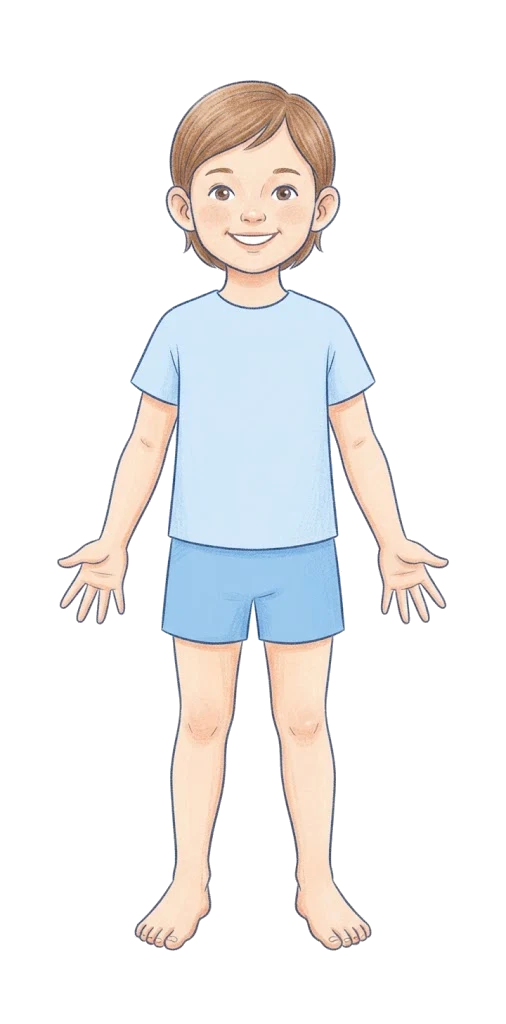
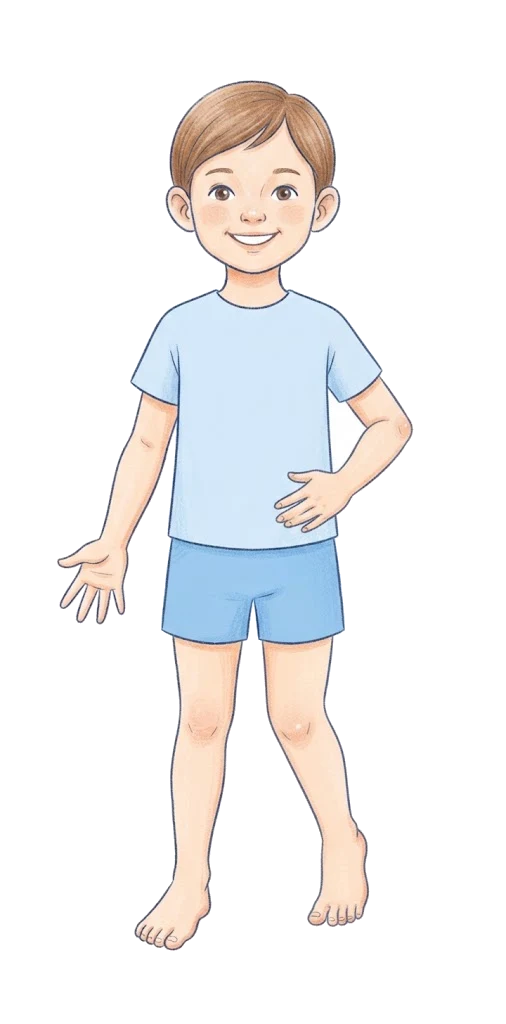
Parties du corps : nouvelle image (bras et jambe pliés), zoom à deux doigts et déplacement
Claude-Session: https://claude.ai/code/session_01UkP11uCuPaN6MyB6YyqYQX

diff --git a/jeux/corps.html b/jeux/corps.html
@@ -23,7 +23,9 @@ body.withkb #inner{bottom:var(--kbh,250px)}
 #name{flex:1;font-size:min(7vw,28px);font-weight:700;line-height:1.2}
 #name span{white-space:nowrap}
 #bw{flex:1;min-height:0;display:flex;justify-content:center}
-#body{height:100%;max-width:100%}
+#body{width:100%;height:100%;touch-action:none}
+#bw{position:relative}
+#unzoom{position:absolute;right:6px;bottom:6px;width:52px;height:52px;border:3px solid var(--bd);border-radius:16px;background:var(--card);font-size:24px;box-shadow:0 3px 0 var(--bd)}
 #body .z{fill:transparent;cursor:pointer}
 #body .z.ok{fill:rgba(34,168,97,.35);stroke:#22a861;stroke-width:6}
 #body .z.ko{fill:rgba(229,72,77,.35);stroke:#e5484d;stroke-width:6}
@@ -48,7 +50,7 @@ body.withkb #inner{bottom:var(--kbh,250px)}
 <div id="inner">
   <div id="top"><button id="lang" aria-label="Langue"></button><button id="lvlb"></button></div>
   <div id="ask"><button id="ear" aria-label="Réécouter">🔊</button><span id="name"></span></div>
-  <div id="bw"><svg id="body" viewBox="40 60 430 910"></svg></div>
+  <div id="bw"><svg id="body" viewBox="40 60 430 910"></svg><button id="unzoom" hidden aria-label="Voir tout">🔍</button></div>
   <div id="gapw" hidden><span class="gap" id="gap">&nbsp;</span></div>
   <div id="msg"></div>
   <div id="cnt"></div>
@@ -70,10 +72,10 @@ var ac=null;function tone(f,t,d){try{if(!ac){var C=window.AudioContext||window.w
 function plain(s){return s.toLowerCase().replace(/œ/g,"oe").normalize("NFD").replace(/[̀-ͯ]/g,"").trim()}
 function nb(t){return t.split(" ").map(function(w){return"<span>"+w+"</span>"}).join(" ")}
 // partie : [nom avec article, réponses écrites acceptées, pluriel ?, point visé par la flèche]
-var P={tete:["la tête",["tête"],0,[255,135]],cheveux:["les cheveux",["cheveux"],1,[255,95]],yeux:["les yeux",["yeux","œil","oeil"],1,[223,191]],nez:["le nez",["nez"],0,[255,215]],
+var P={tete:["la tête",["tête"],0,[255,130]],cheveux:["les cheveux",["cheveux"],1,[255,95]],yeux:["les yeux",["yeux","œil","oeil"],1,[222,190]],nez:["le nez",["nez"],0,[255,213]],
  bouche:["la bouche",["bouche"],0,[255,242]],oreille:["l'oreille",["oreille","oreilles"],0,[176,212]],cou:["le cou",["cou"],0,[255,280]],epaule:["l'épaule",["épaule","épaules"],0,[165,330]],
- bras:["le bras",["bras"],0,[385,500]],coude:["le coude",["coude","coudes"],0,[382,450]],main:["la main",["main","mains"],0,[418,565]],doigt:["le doigt",["doigt","doigts"],0,[425,600]],
- ventre:["le ventre",["ventre"],0,[255,470]],jambe:["la jambe",["jambe","jambes"],0,[300,800]],genou:["le genou",["genou","genoux"],0,[300,722]],pied:["le pied",["pied","pieds"],0,[330,930]]};
+ bras:["le bras",["bras"],0,[150,470]],coude:["le coude",["coude","coudes"],0,[398,435]],main:["la main",["main","mains"],0,[92,565]],doigt:["le doigt",["doigt","doigts"],0,[85,600]],
+ ventre:["le ventre",["ventre"],0,[230,480]],jambe:["la jambe",["jambe","jambes"],0,[210,800]],genou:["le genou",["genou","genoux"],0,[298,722]],pied:["le pied",["pied","pieds"],0,[338,915]]};
 // en allemand (bouton 🇫🇷 / 🇩🇪, à la demande de l'utilisateur) : [nom avec article, réponses écrites acceptées (avec ou sans article), pluriel ?]
 var PD={tete:["der Kopf",["Kopf"],0],cheveux:["die Haare",["Haare","Haar"],1],yeux:["die Augen",["Augen","Auge"],1],nez:["die Nase",["Nase"],0],bouche:["der Mund",["Mund"],0],
  oreille:["das Ohr",["Ohr","Ohren"],0],cou:["der Hals",["Hals"],0],epaule:["die Schulter",["Schulter","Schultern"],0],bras:["der Arm",["Arm","Arme"],0],coude:["der Ellbogen",["Ellbogen","Ellenbogen"],0],
@@ -87,21 +89,21 @@ var LV=[null,{t:"Facile",d:"Touche : la tête, le nez, la main, le pied…",p:["
 // dessin de l'enfant (de face) puis zones à toucher, des plus grandes aux plus petites (les petites passent devant)
 // dessin de l'enfant : image crayon (Gemini, détourée, 506 × 1024) ; zones à toucher recalées sur l'image, des plus grandes aux plus petites
 var ART='<image href="jeux/img/corps.webp" x="0" y="0" width="506" height="1024"/>';
-var Z=[["tete",'<ellipse cx="255" cy="185" rx="92" ry="100"/>'],
- ["bras",'<polygon points="140,330 175,330 140,560 100,550"/><polygon points="335,330 370,330 410,550 370,560"/>'],
- ["jambe",'<rect x="172" y="640" width="80" height="240"/><rect x="258" y="640" width="80" height="240"/>'],
- ["ventre",'<rect x="185" y="410" width="140" height="130"/>'],
- ["pied",'<ellipse cx="180" cy="925" rx="48" ry="30"/><ellipse cx="328" cy="925" rx="48" ry="30"/>'],
- ["main",'<circle cx="95" cy="570" r="38"/><circle cx="415" cy="570" r="38"/>'],
- ["cheveux",'<polygon points="168,190 170,110 210,78 300,78 340,110 342,190 320,150 255,115 190,150"/>'],
- ["oreille",'<ellipse cx="176" cy="210" rx="18" ry="28"/><ellipse cx="336" cy="210" rx="18" ry="28"/>'],
+var Z=[["tete",'<ellipse cx="255" cy="175" rx="90" ry="100"/>'],
+ ["bras",'<polygon points="138,335 172,335 135,560 98,548"/><polygon points="338,335 372,335 412,425 396,460 330,488 318,462 378,428"/>'],
+ ["jambe",'<rect x="172" y="640" width="76" height="245"/><polygon points="256,640 340,640 346,760 360,872 318,880 300,765"/>'],
+ ["ventre",'<rect x="185" y="420" width="135" height="125"/>'],
+ ["pied",'<ellipse cx="172" cy="930" rx="48" ry="30"/><ellipse cx="338" cy="915" rx="40" ry="32"/>'],
+ ["main",'<circle cx="92" cy="572" r="36"/><circle cx="308" cy="500" r="34"/>'],
+ ["cheveux",'<polygon points="168,190 170,110 210,76 300,76 340,110 342,190 322,150 255,112 188,150"/>'],
+ ["oreille",'<ellipse cx="176" cy="210" rx="18" ry="28"/><ellipse cx="336" cy="208" rx="18" ry="28"/>'],
  ["cou",'<rect x="225" y="262" width="60" height="32"/>'],
- ["epaule",'<circle cx="168" cy="322" r="26"/><circle cx="342" cy="322" r="26"/>'],
- ["coude",'<circle cx="128" cy="450" r="22"/><circle cx="382" cy="450" r="22"/>'],
- ["genou",'<circle cx="210" cy="722" r="26"/><circle cx="300" cy="722" r="26"/>'],
- ["doigt",'<rect x="55" y="580" width="60" height="40"/><rect x="395" y="580" width="60" height="40"/>'],
- ["yeux",'<circle cx="223" cy="191" r="16"/><circle cx="287" cy="191" r="16"/>'],
- ["nez",'<ellipse cx="255" cy="215" rx="13" ry="13"/>'],
+ ["epaule",'<circle cx="165" cy="330" r="26"/><circle cx="345" cy="330" r="26"/>'],
+ ["coude",'<circle cx="126" cy="450" r="22"/><circle cx="398" cy="435" r="24"/>'],
+ ["genou",'<circle cx="205" cy="718" r="26"/><circle cx="298" cy="722" r="26"/>'],
+ ["doigt",'<rect x="55" y="580" width="60" height="42"/><rect x="272" y="478" width="40" height="42"/>'],
+ ["yeux",'<circle cx="222" cy="190" r="16"/><circle cx="286" cy="190" r="16"/>'],
+ ["nez",'<ellipse cx="255" cy="213" rx="13" ry="13"/>'],
  ["bouche",'<ellipse cx="255" cy="240" rx="28" ry="14"/>']];
 var PK="@"+(window.PROFILE||"p1");function ls(k,v){try{if(v===undefined)return localStorage.getItem(k);localStorage.setItem(k,v)}catch(e){return null}}
 var level=Math.min(3,Math.max(1,parseInt(ls("corps_lvl"+PK))||1));
@@ -121,7 +123,7 @@ function arrow(t){var x=t[0],y=t[1],fx=x<253?x-90:x+90,fy=y-60;
 function show(){var L=LV[level];cur=deck[qi];miss=0;busy=false;val="";
  $("body").innerHTML=ART+zones(L)+(L.w?arrow(P[cur][3]):"");
  // en écriture (clavier affiché, moins de place) : on zoome sur la partie du corps montrée par la flèche
- var y=P[cur][3][1];$("body").setAttribute("viewBox",!L.w?"40 60 430 910":y<300?"110 30 290 300":y<650?"20 280 470 380":"110 560 300 420");$("msg").textContent="";
+ var y=P[cur][3][1];setVB0((!L.w?"40 60 430 910":y<300?"110 30 290 300":y<650?"20 280 470 380":"110 560 300 420").split(" ").map(Number));$("msg").textContent="";
  $("name").innerHTML=nb(ask());$("cnt").textContent=(qi+1)+" / "+deck.length;if(L.w){paint();KB.enable(true)}
  setTimeout(function(){if(!busy&&!miss)say(ask())},250)}
 function paint(){var g=$("gap");g.className="gap";g.innerHTML=val?val.replace(/</g,""):"&nbsp;"}
@@ -129,11 +131,36 @@ $("ear").onclick=function(){if(cur)say(ask())};
 function answer(ok){try{if(parent!==window)parent.postMessage({type:"answer",game:"corps",ok:ok,diff:LV[level].x,k:LV[level].w?"Écrire le nom":"Montrer",item:P[cur][0]+(DE?" · "+PD[cur][0]:"")},"*")}catch(e){}}
 function win(){busy=true;tone(660,0,.12);tone(880,.1,.2);if(!miss){good++;answer(true)}var nm=NM(cur).n,t=nm.charAt(0).toUpperCase()+nm.slice(1);
  $("msg").textContent="✅ "+t;say(T("Bravo ! ","Super! ")+nm);afterSay(function(){qi++;if(qi<deck.length)show();else end()},1800)}
-$("body").addEventListener("click",function(e){var z=e.target.closest(".z");if(!z||busy||!cur||LV[level].w)return;var k=z.dataset.k;
+/* zoom (à la demande de l'utilisateur) : pincer à deux doigts (ou molette), glisser un doigt pour se déplacer une fois zoomé, 🔍 = vue de départ ;
+   un toucher sans glisser répond au relâchement du doigt (pas l'événement click, qui peut être avalé après un glissement) — comme les cartes de Géographie */
+var svgB=$("body"),VB0=[40,60,430,910],VB=VB0.slice(),PT={},pinch=null,pan=null,moved=false;
+// la vue de départ est élargie aux proportions de la zone d'affichage : zoomé, l'image occupe toute la largeur
+function setVB0(v){var r=svgB.getBoundingClientRect(),a=r.width&&r.height?r.width/r.height:v[2]/v[3];
+ if(v[2]/v[3]<a){var w=v[3]*a;v=[v[0]-(w-v[2])/2,v[1],w,v[3]]}else{var h=v[2]/a;v=[v[0],v[1]-(h-v[3])/2,v[2],h]}
+ VB0=v.slice();VB=v.slice();applyVB()}
+function applyVB(){svgB.setAttribute("viewBox",VB.join(" "));$("unzoom").hidden=VB[2]>=VB0[2]-1}
+function geom(vb){var r=svgB.getBoundingClientRect(),s=Math.min(r.width/vb[2],r.height/vb[3]);return{r:r,s:s,ox:(r.width-vb[2]*s)/2,oy:(r.height-vb[3]*s)/2}}
+function toSvg(x,y,vb){var g=geom(vb);return[vb[0]+(x-g.r.left-g.ox)/g.s,vb[1]+(y-g.r.top-g.oy)/g.s]}
+function clampVB(v){var w=Math.max(VB0[2]/4,Math.min(VB0[2],v[2])),h=w*VB0[3]/VB0[2];return[Math.max(VB0[0],Math.min(VB0[0]+VB0[2]-w,v[0])),Math.max(VB0[1],Math.min(VB0[1]+VB0[3]-h,v[1])),w,h]}
+function zoomAt(cx,cy,P0,w){var h=w*VB0[3]/VB0[2],v=[0,0,w,h],g=geom(v);v[0]=P0[0]-(cx-g.r.left-g.ox)/g.s;v[1]=P0[1]-(cy-g.r.top-g.oy)/g.s;VB=clampVB(v);applyVB()}
+svgB.addEventListener("pointerdown",function(e){PT[e.pointerId]={x:e.clientX,y:e.clientY};var ids=Object.keys(PT);
+ if(ids.length===2){var a=PT[ids[0]],b=PT[ids[1]];pinch={d:Math.hypot(a.x-b.x,a.y-b.y)||1,w:VB[2],P:toSvg((a.x+b.x)/2,(a.y+b.y)/2,VB)};pan=null;moved=true}
+ else if(ids.length===1){moved=false;pan={x:e.clientX,y:e.clientY,vb:VB.slice()}}});
+svgB.addEventListener("pointermove",function(e){if(!PT[e.pointerId])return;PT[e.pointerId]={x:e.clientX,y:e.clientY};var ids=Object.keys(PT);
+ if(pinch&&ids.length>=2){var a=PT[ids[0]],b=PT[ids[1]],d=Math.hypot(a.x-b.x,a.y-b.y)||1;zoomAt((a.x+b.x)/2,(a.y+b.y)/2,pinch.P,pinch.w*pinch.d/d)}
+ else if(pan&&VB[2]<VB0[2]-1){var dx=e.clientX-pan.x,dy=e.clientY-pan.y;if(Math.abs(dx)+Math.abs(dy)>8)moved=true;
+  if(moved){var s=geom(pan.vb).s;VB=clampVB([pan.vb[0]-dx/s,pan.vb[1]-dy/s,pan.vb[2],pan.vb[3]]);applyVB()}}});
+function up(e){var tap=e.type==="pointerup"&&!moved&&!pinch&&Object.keys(PT).length===1;delete PT[e.pointerId];
+ if(tap){var el=document.elementFromPoint(e.clientX,e.clientY);if(el)choose({target:el})}
+ if(Object.keys(PT).length<2)pinch=null;if(!Object.keys(PT).length)pan=null}
+svgB.addEventListener("pointerup",up);svgB.addEventListener("pointercancel",up);
+svgB.addEventListener("wheel",function(e){e.preventDefault();zoomAt(e.clientX,e.clientY,toSvg(e.clientX,e.clientY,VB),VB[2]*(e.deltaY>0?1.2:1/1.2))},{passive:false});
+$("unzoom").onclick=function(){VB=VB0.slice();applyVB()};
+function choose(e){var z=e.target.closest&&e.target.closest(".z");if(!z||busy||!cur||LV[level].w)return;var k=z.dataset.k;
  if(k===cur){z.classList.add("ok");win()}
  else{if(!miss)answer(false);miss++;z.classList.add("ko");tone(220,0,.25);var t=T("Ça, c'est ","Das ist ")+NM(k).n+".";$("msg").textContent=t;say(t);
   setTimeout(function(){z.classList.remove("ko")},900);
-  if(miss>=2){var c=$("body").querySelector('.z[data-k="'+cur+'"]');if(c)c.classList.add("ok")}}});
+  if(miss>=2){var c=$("body").querySelector('.z[data-k="'+cur+'"]');if(c)c.classList.add("ok")}}}
 function check(){if(busy||!val||!LV[level].w)return;var g=$("gap");
  var v=plain(val).replace(/^(der|die|das) /,"");if(NM(cur).a.some(function(a){return plain(a)===v})){g.className="gap ok";g.textContent=DE?NM(cur).n:NM(cur).a[0];KB.enable(false);win();return}
  if(!miss)answer(false);miss++;g.className="gap ko";tone(220,0,.25);busy=true;

diff --git a/sw.js b/sw.js
@@ -1,6 +1,6 @@
 // Service worker : fonctionnement hors ligne.
 // Pensez à changer VERSION à chaque mise à jour des fichiers pour que les téléphones la récupèrent.
-var VERSION = "v191";
+var VERSION = "v192";
 var CACHE = "jeux-ecole-" + VERSION;
 var FILES = [
   "./",

diff --git a/CLAUDE.md b/CLAUDE.md
@@ -104,7 +104,7 @@ Cibles >= 56px, bordures 3px, textes secondaires >= 16px, menus centrés vertica
 - **Exercices ajoutés d'après le programme officiel du CP** (fiche du ministère envoyée par l'utilisateur ; il a choisi : jours/mois/saisons au clavier, géométrie dans une nouvelle matière, féminin et pluriel, gauche/droite, le corps) :
   - **Les jours, les mois, les saisons** (`jeux/ecrire.html` START 1, hash `#jours`, jeu `jours`) : question écrite et dite (« Quel jour vient après jeudi ? », « Aujourd'hui, c'est mardi. Quel jour serons-nous demain ? », « Quelle saison vient après l'été ? », « En quelle saison tombe la neige ? », « Quel mois vient avant mars ? »), réponse écrite au clavier maison (touches é è ê à ç û) ; accents non exigés mais rappelés (« Attention aux accents : février ») ; après 2 erreurs « Recopie : … ». Niveaux (`jours_lvl@`) : Facile = jours ×1 ; Moyen = + saisons ×1,25 ; Difficile = + mois ×1,5. `k` = Les jours / Les saisons / Les mois.
   - **Féminin et pluriel** (`ecrire.html` START 2, hash `#femplu`, jeu `femplu`) : « un chat → des ___ », « il est grand → elle est ___ », « un ami → une ___ » ; message ciblé si l'enfant recopie le mot de départ (« N'oublie pas la marque du pluriel / du féminin ! »). Niveaux : Facile = pluriel en s ; Moyen = + féminin en e ; Difficile = + pluriels en x (chevaux, gâteaux…) et féminins qui changent (chanteuse, boulangère, lionne, reine…).
-  - **Les parties du corps** (rangé dans la matière **Sciences** (clé `bio`, appelée d'abord Biologie), couleur `--bio` #6f8f2e, icône 🌱, à la demande de l'utilisateur ; `jeux/corps.html`, hash `#corps`, jeu `corps`) : enfant dessiné en SVG (de face), zones invisibles à toucher (`Z`, plus grandes que le dessin pour les petites parties, des plus grandes aux plus petites). Facile = toucher tête, cheveux, yeux, nez, bouche, oreille, bras, main, ventre, jambe, pied ; Moyen = + cou, épaule, coude, genou, doigt ; après 2 erreurs la bonne partie s'allume. Difficile = une flèche montre une partie (vue zoomée sur la zone), « Comment ça s'appelle ? », on écrit son nom au clavier (« œil » ou « yeux », pluriels acceptés). **Bouton 🇫🇷 Français / 🇩🇪 Deutsch** (en haut à gauche, à la demande de l'utilisateur, `corps_lang@<profil>`) : questions, noms et voix en allemand (« Wo ist der Bauch? », « Wie heißt das? », `PD` : der Kopf, die Haare, die Augen… ; clavier avec ä ö ü ß et espace, réponse avec ou sans article). Dessin = image crayon de Gemini (prompt « Le corps » dans `outils/chatgpt-planches.md`), détourée, `jeux/img/corps.webp` (506 × 1024) placée dans le SVG ; zones `Z` et points des flèches en coordonnées de l'image (vérifiés en superposition) ; vue entière « 40 60 430 910 », zooms en écriture : tête, buste, jambes.
+  - **Les parties du corps** (rangé dans la matière **Sciences** (clé `bio`, appelée d'abord Biologie), couleur `--bio` #6f8f2e, icône 🌱, à la demande de l'utilisateur ; `jeux/corps.html`, hash `#corps`, jeu `corps`) : enfant dessiné en SVG (de face), zones invisibles à toucher (`Z`, plus grandes que le dessin pour les petites parties, des plus grandes aux plus petites). Facile = toucher tête, cheveux, yeux, nez, bouche, oreille, bras, main, ventre, jambe, pied ; Moyen = + cou, épaule, coude, genou, doigt ; après 2 erreurs la bonne partie s'allume. Difficile = une flèche montre une partie (vue zoomée sur la zone), « Comment ça s'appelle ? », on écrit son nom au clavier (« œil » ou « yeux », pluriels acceptés). **Bouton 🇫🇷 Français / 🇩🇪 Deutsch** (en haut à gauche, à la demande de l'utilisateur, `corps_lang@<profil>`) : questions, noms et voix en allemand (« Wo ist der Bauch? », « Wie heißt das? », `PD` : der Kopf, die Haare, die Augen… ; clavier avec ä ö ü ß et espace, réponse avec ou sans article). Dessin = image crayon de Gemini (prompt « Le corps, version 2 » dans `outils/chatgpt-planches.md` : bras droit plié main sur le ventre, jambe droite pliée ; Gemini refuse le torse nu, l'enfant garde son tee-shirt), détourée, `jeux/img/corps.webp` (506 × 1024) placée dans le SVG ; **zoom** (à la demande de l'utilisateur) : pincer à deux doigts, glisser un doigt pour se déplacer, 🔍 = vue de départ, toucher sans glisser = réponse au relâchement (`choose`), vue de départ élargie aux proportions de l'écran (`setVB0`) ; zones `Z` et points des flèches en coordonnées de l'image (vérifiés en superposition) ; vue entière « 40 60 430 910 », zooms en écriture : tête, buste, jambes.
 
 ### Mathématiques
 1. **Calcul malin**, **scindé en 3 exercices** (à la demande de l'utilisateur) : **Additions** (`#addition`), **Soustractions** (`#soustraction`), **Compléments** (`#complement`, icône 🔟) ; dans le menu, icônes texte `.ic.opc` : **+ rouge** pour Additions, **− bleu** pour Soustractions (à la demande de l'utilisateur) ; même fichier `calcul.html` avec `START` 1/2/3 (`FIX` : type imposé, choix du type caché dans ⚙, et le type imposé n'est pas enregistré dans la clé `calcul` ; résultat maximum commun). Les messages `answer` gardent `game:"calcul"` (étoiles `ECON.P.calcul`), mais les résultats sont rangés par exercice (clé de `GAMES`). L'ancienne entrée `GAMES.calcul` reste (`old:1`, hors menus, hors choix du Parcours et des jeux limités) pour l'historique du Bilan ; une étape de Parcours « calcul » devient « addition », puis **une seule fois** (`path.v3`, à la demande de l'utilisateur) les étapes Soustractions et Compléments sont insérées juste après la première étape Additions (même unité, même nombre), si le parcours n'en a pas déjà (`ensurePath`) ; supprimées ensuite, elles ne reviennent pas. Description d'origine : additions, soustractions et compléments, avec un résultat maximum réglable. Partie sans fin (plus de condition de fin ni de compteur propre).
